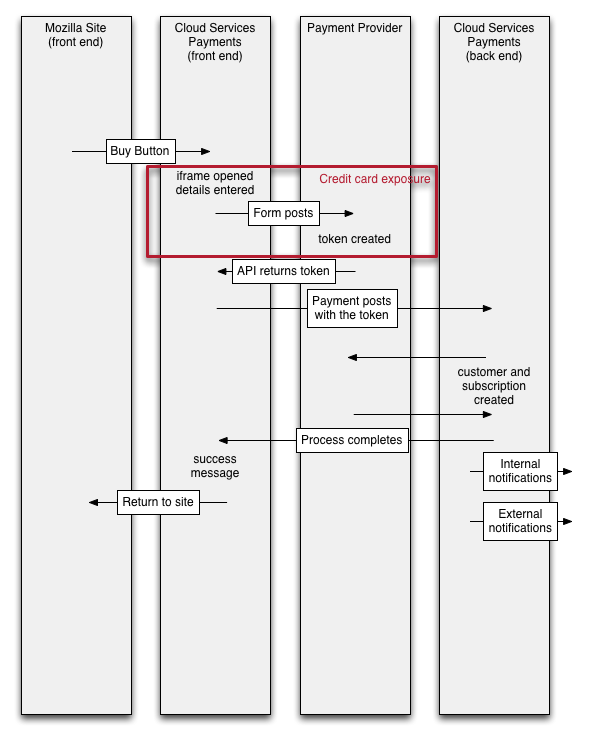
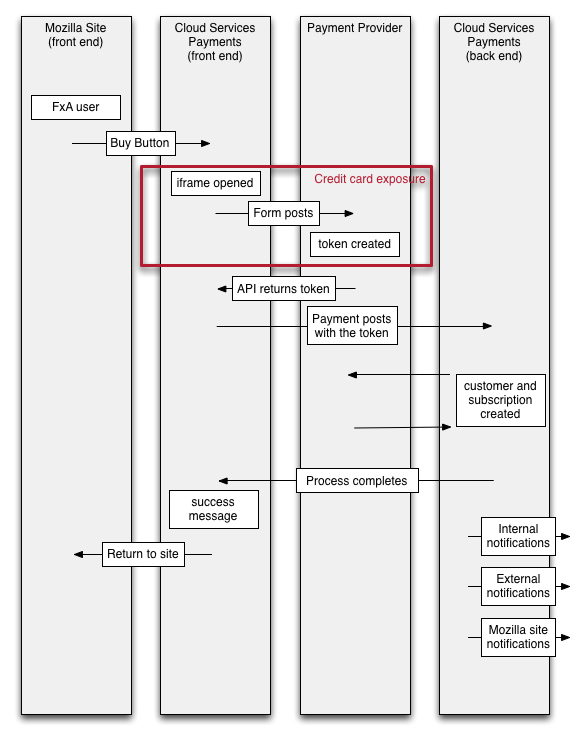
improve spacing a little

diff --git a/docs/design/design.rst b/docs/design/design.rst
@@ -3,9 +3,13 @@ Design documentation
 
 Overall design documentation.
 
+Status: **in draft** expect changes.
+
 Purchase flow
 -------------
 
-Showing exposure of credit card details.
+Focusing on showing exposure of credit card details.
 
 .. image:: buy-flow.png
+
+
